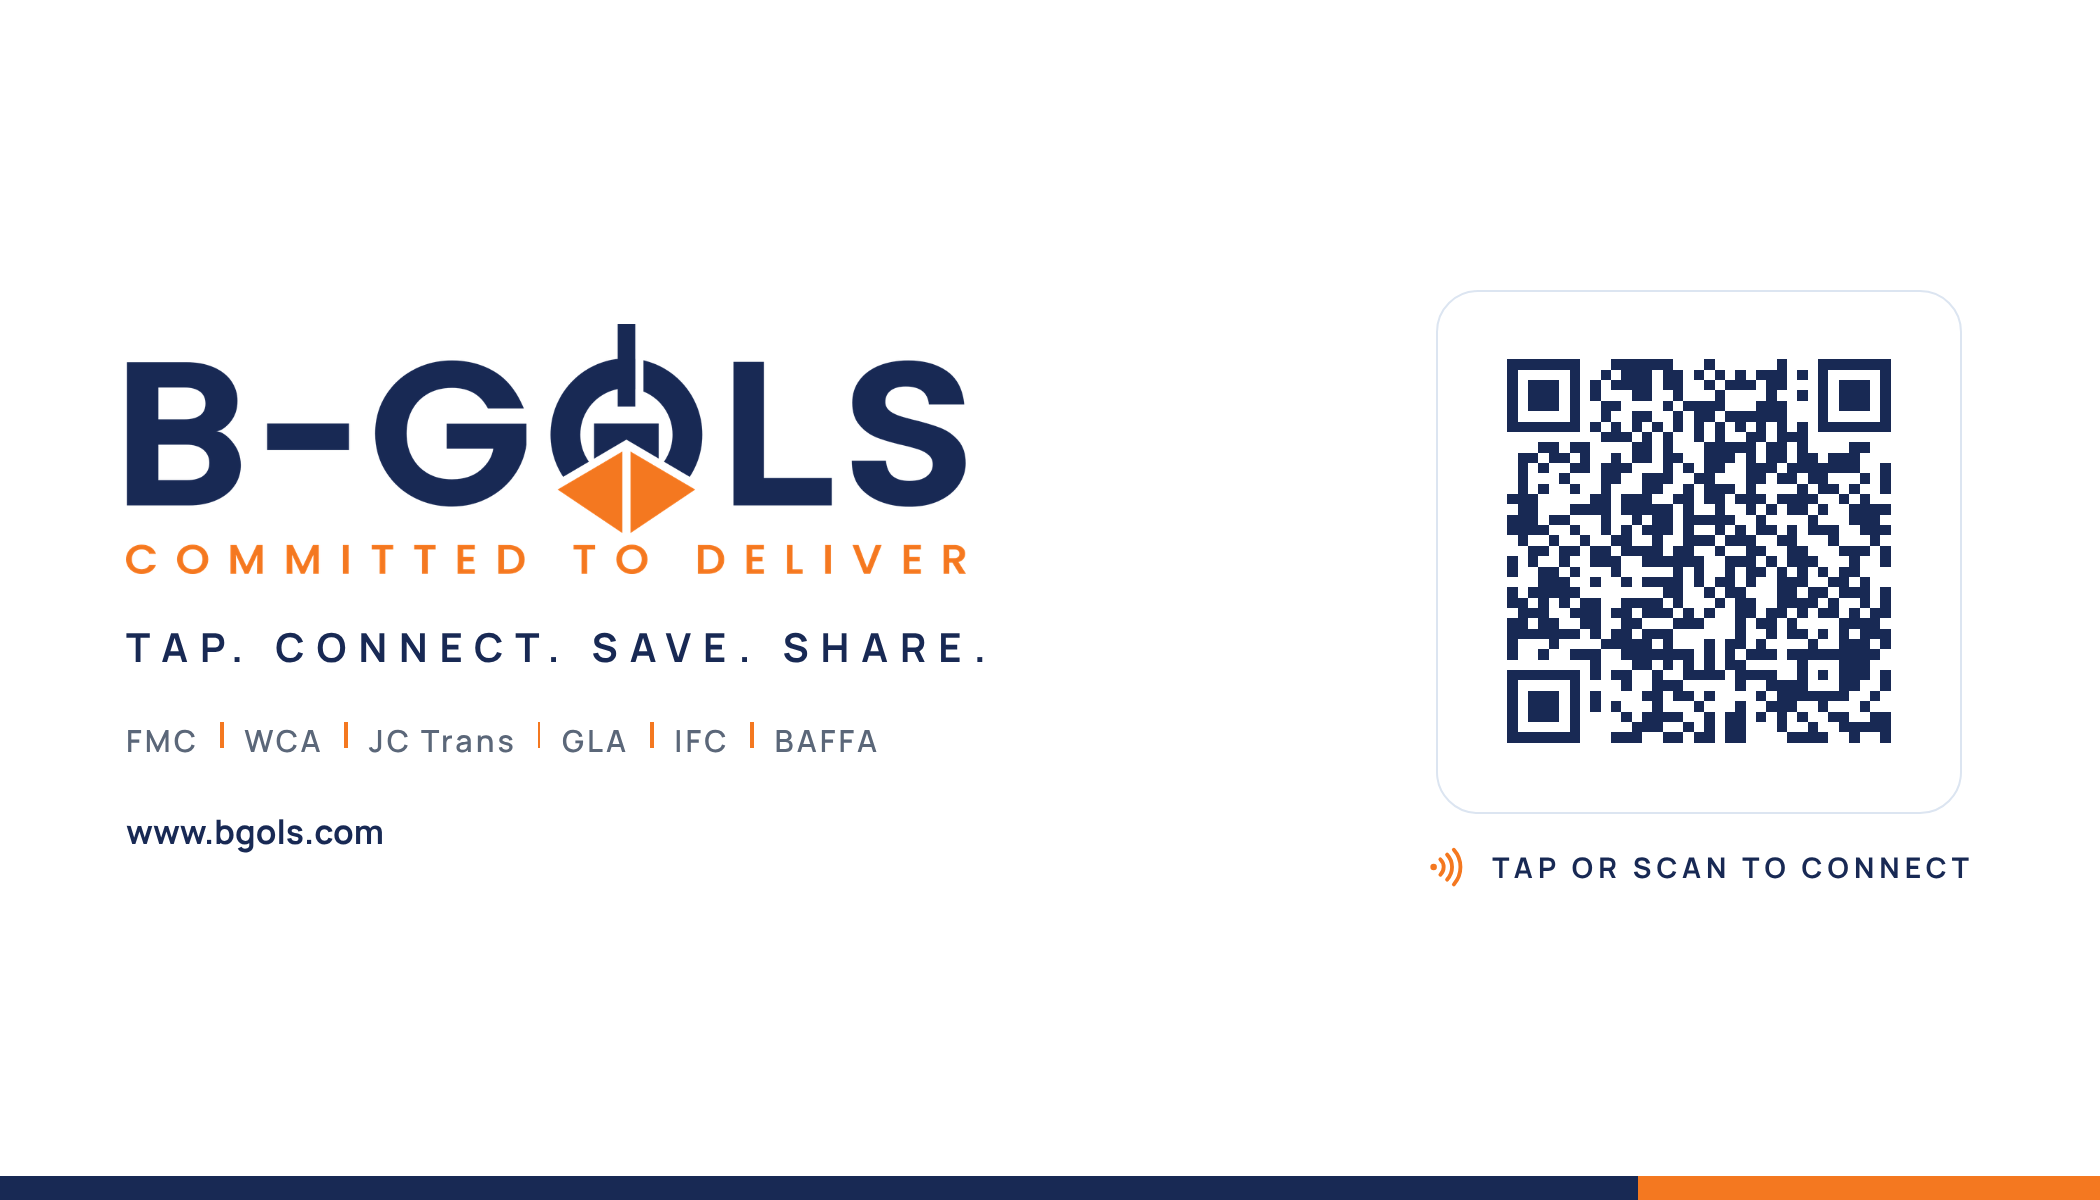
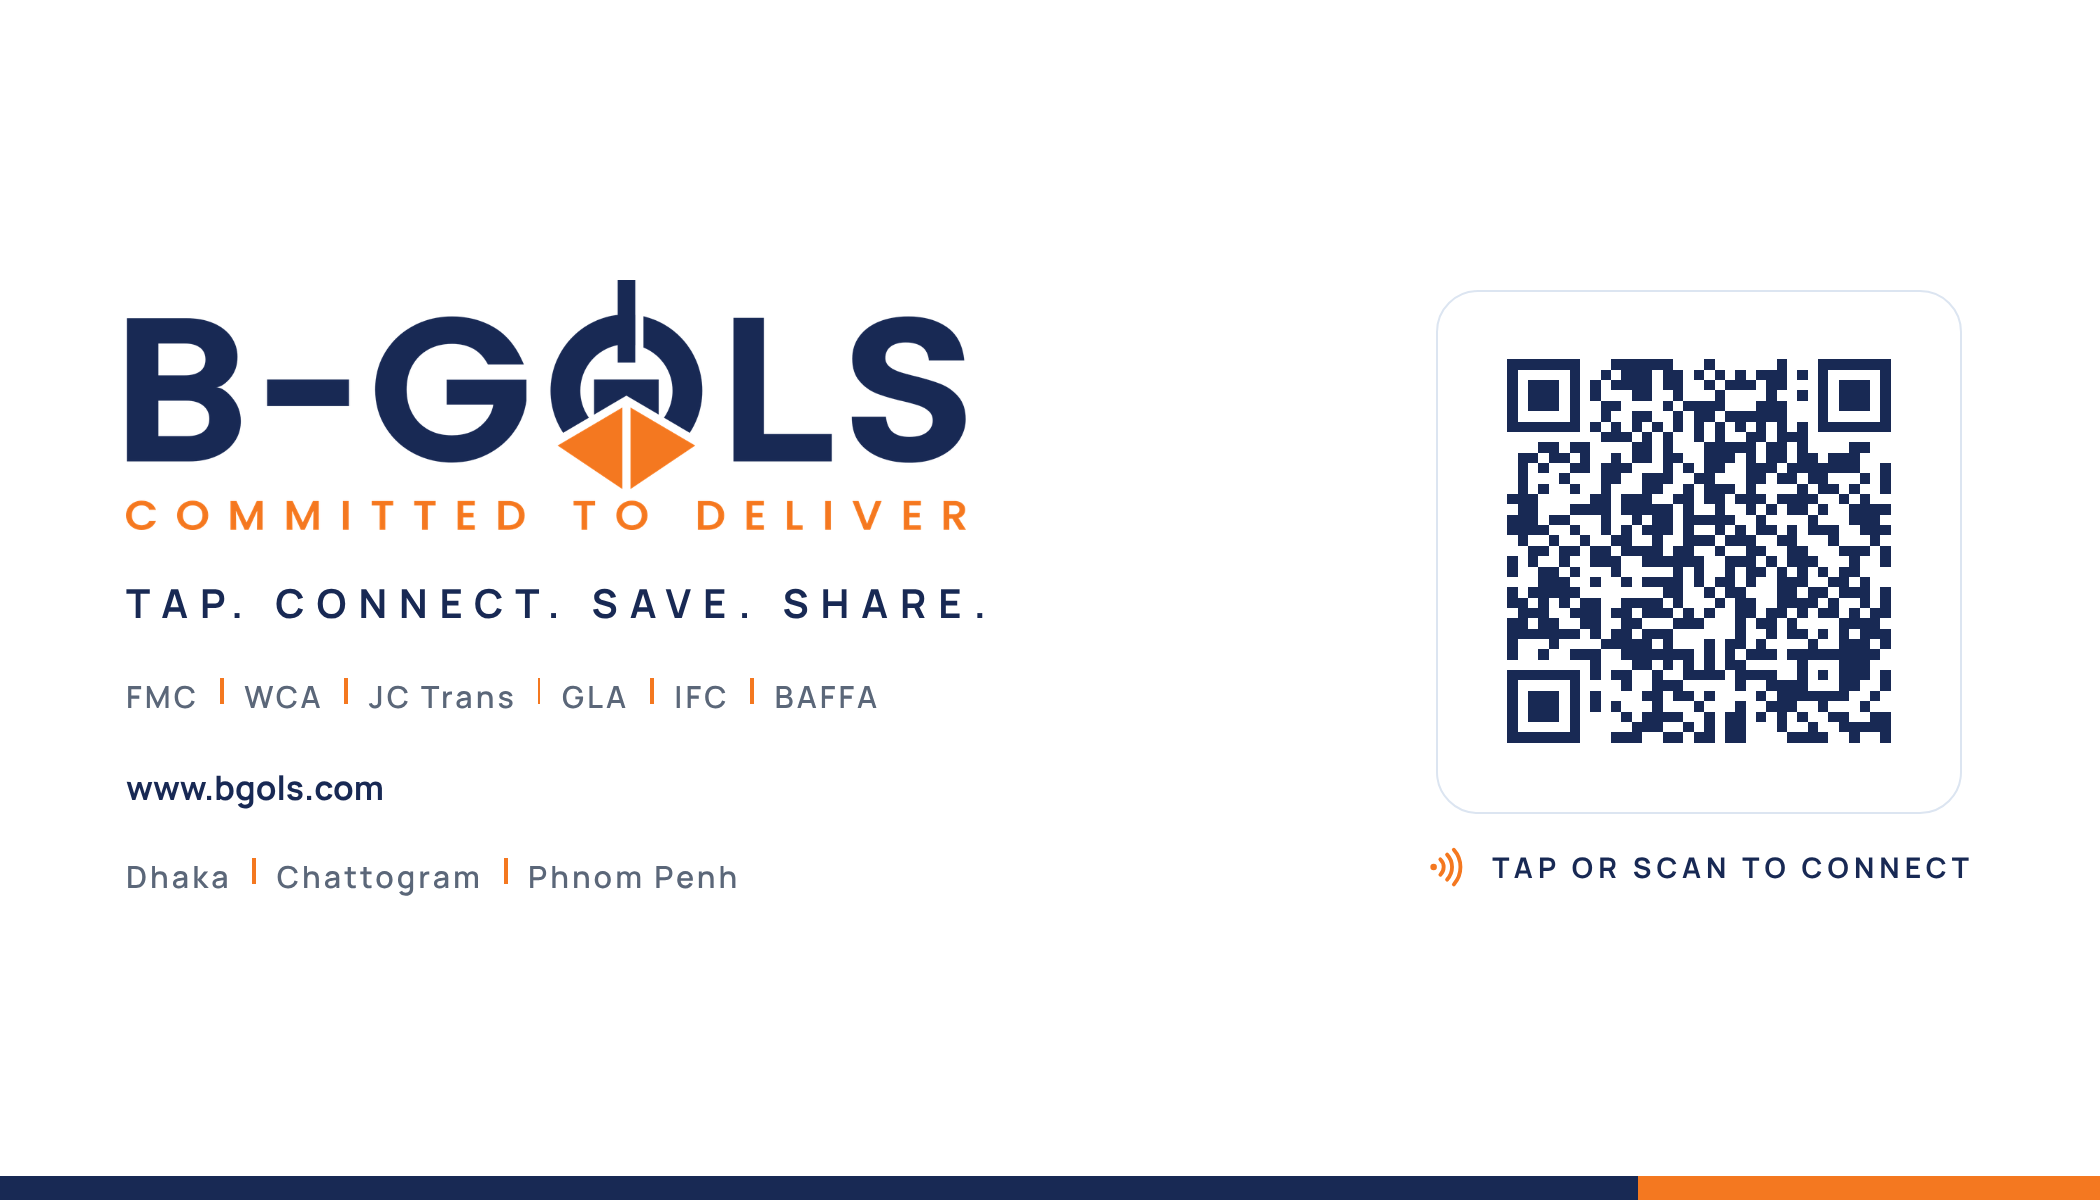
Unify office addresses: SHR Tower Chattogram, Bangladesh/Cambodia office labels
Claude-Session: https://claude.ai/code/session_01TprP1ieCAEd2tQhQxghHUL

Changed region(s): [[0.0619, 0.2158, 0.4643, 0.74]]

diff --git a/index.html b/index.html
@@ -172,20 +172,36 @@
       </section>
 
       <section class="panel" aria-labelledby="h-office">
-        <h2 id="h-office" class="panel-title">Office Location</h2>
-        <address class="address">
-          <svg><use href="#i-pin"/></svg>
-          <span>B&amp;T NEHALEEYA TOWER, Level-7, Holding No. 80B, Kemal Ataturk Avenue, P.S. Banani, Dhaka-1212, Bangladesh.</span>
-        </address>
+        <h2 id="h-office" class="panel-title">Offices</h2>
+        <div class="office">
+          <h3 class="office-city"><svg><use href="#i-pin"/></svg>Dhaka <small>Bangladesh Office</small></h3>
+          <address class="address">B&amp;T Nehaleeya Tower, Level-7, Holding No. 80B, Kemal Ataturk Avenue, P.S. Banani, Dhaka-1212, Bangladesh</address>
+          <div class="btn-row">
+            <a class="btn btn-secondary" target="_blank" rel="noopener" href="https://www.google.com/maps/dir/?api=1&amp;destination=B%26T%20Nehaleeya%20Tower%2C%20Holding%20No.%2080B%2C%20Kemal%20Ataturk%20Avenue%2C%20Banani%2C%20Dhaka-1212%2C%20Bangladesh"><svg><use href="#i-directions"/></svg>Directions</a>
+            <a class="btn btn-ghost" target="_blank" rel="noopener" href="https://www.google.com/maps/search/?api=1&amp;query=B%26T%20Nehaleeya%20Tower%2C%20Holding%20No.%2080B%2C%20Kemal%20Ataturk%20Avenue%2C%20Banani%2C%20Dhaka-1212%2C%20Bangladesh"><svg><use href="#i-external"/></svg>Open in Maps</a>
+          </div>
+        </div>
         <div class="map" id="map">
           <button class="map-load" type="button" id="mapBtn">
             <svg><use href="#i-pin"/></svg>
-            <span><b>Show interactive map</b><small>Loads Google Maps (google.com) only when you tap</small></span>
+            <span><b>Show Dhaka office on map</b><small>Loads Google Maps (google.com) only when you tap</small></span>
           </button>
         </div>
-        <div class="btn-row">
-          <a class="btn btn-secondary" id="directionsLink" target="_blank" rel="noopener" href="https://www.google.com/maps/dir/?api=1&amp;destination=B%26T%20Nehaleeya%20Tower%2C%20Holding%20No.%2080B%2C%20Kemal%20Ataturk%20Avenue%2C%20Banani%2C%20Dhaka-1212%2C%20Bangladesh"><svg><use href="#i-directions"/></svg>Get Directions</a>
-          <a class="btn btn-ghost" target="_blank" rel="noopener" href="https://www.google.com/maps/search/?api=1&amp;query=B%26T%20Nehaleeya%20Tower%2C%20Holding%20No.%2080B%2C%20Kemal%20Ataturk%20Avenue%2C%20Banani%2C%20Dhaka-1212%2C%20Bangladesh"><svg><use href="#i-external"/></svg>Open in Maps</a>
+        <div class="office">
+          <h3 class="office-city"><svg><use href="#i-pin"/></svg>Chattogram</h3>
+          <address class="address">SHR Tower, 2nd Floor, 320, Sheikh Mujib Road, Agrabad C/A, Chattogram-4100, Bangladesh</address>
+          <div class="btn-row">
+            <a class="btn btn-secondary" target="_blank" rel="noopener" href="https://www.google.com/maps/dir/?api=1&amp;destination=SHR%20Tower%2C%20320%20Sheikh%20Mujib%20Road%2C%20Agrabad%2C%20Chattogram-4100%2C%20Bangladesh"><svg><use href="#i-directions"/></svg>Directions</a>
+            <a class="btn btn-ghost" target="_blank" rel="noopener" href="https://www.google.com/maps/search/?api=1&amp;query=SHR%20Tower%2C%20320%20Sheikh%20Mujib%20Road%2C%20Agrabad%2C%20Chattogram-4100%2C%20Bangladesh"><svg><use href="#i-external"/></svg>Open in Maps</a>
+          </div>
+        </div>
+        <div class="office">
+          <h3 class="office-city"><svg><use href="#i-pin"/></svg>Phnom Penh <small>Cambodia Office</small></h3>
+          <address class="address">BG-EXPRESS (CAMBODIA) CO. LTD., Time Square-3, Floor-12F, Village-7, Street 335-317, Sangkat Boeng Kak, Ti Muy, Khan Toul Kork, Phnom Penh, Cambodia</address>
+          <div class="btn-row">
+            <a class="btn btn-secondary" target="_blank" rel="noopener" href="https://www.google.com/maps/dir/?api=1&amp;destination=Time%20Square%203%2C%20Street%20335%2C%20Boeng%20Kak%2C%20Toul%20Kork%2C%20Phnom%20Penh%2C%20Cambodia"><svg><use href="#i-directions"/></svg>Directions</a>
+            <a class="btn btn-ghost" target="_blank" rel="noopener" href="https://www.google.com/maps/search/?api=1&amp;query=Time%20Square%203%2C%20Street%20335%2C%20Boeng%20Kak%2C%20Toul%20Kork%2C%20Phnom%20Penh%2C%20Cambodia"><svg><use href="#i-external"/></svg>Open in Maps</a>
+          </div>
         </div>
       </section>
 

diff --git a/css/styles.css b/css/styles.css
@@ -237,6 +237,11 @@ body.ready .loader { opacity: 0; visibility: hidden; }
 .map-load span { display: grid; gap: 2px; background: var(--surface); padding: 8px 14px; border-radius: 12px; }
 .map-load b { font-size: 14px; }
 .map-load small { font-size: 11.5px; color: var(--muted); }
+.office + .office, .map + .office { margin-top: 18px; padding-top: 16px; border-top: 1px solid var(--line); }
+.office-city { margin: 0 0 6px; display: flex; align-items: center; gap: 8px; font-size: 13px; font-weight: 700; letter-spacing: .14em; text-transform: uppercase; color: var(--orange); }
+.office-city svg { width: 16px; height: 16px; }
+.office-city small { font-size: 11px; letter-spacing: .04em; text-transform: none; color: var(--muted); font-weight: 600; }
+.office .address { display: block; margin-bottom: 10px; }
 .btn-row { display: flex; flex-wrap: wrap; gap: 10px; }
 .btn-row .btn { flex: 1 1 140px; }
 

diff --git a/sw.js b/sw.js
@@ -1,6 +1,7 @@
 /* Service worker: makes the card open instantly and work offline.
    Bump VERSION whenever you change any file so phones fetch the update. */
-const VERSION = "card-v1";
+const PREFIX = "shams-card-";
+const VERSION = PREFIX + "v2";
 const CORE = [
   "./", "index.html", "card.html", "nfc-setup.html", "email-signature.html", "css/styles.css", "js/config.js", "js/app.js", "contact.vcf",
   "manifest.webmanifest",
@@ -17,7 +18,7 @@ self.addEventListener("install", (e) => {
 
 self.addEventListener("activate", (e) => {
   e.waitUntil(
-    caches.keys().then((keys) => Promise.all(keys.filter((k) => k !== VERSION).map((k) => caches.delete(k))))
+    caches.keys().then((keys) => Promise.all(keys.filter((k) => k === "card-v1" || (k.startsWith(PREFIX) && k !== VERSION)).map((k) => caches.delete(k))))
       .then(() => self.clients.claim())
   );
 });

diff --git a/card.html b/card.html
@@ -117,6 +117,7 @@
           <p class="b-motto">Tap. Connect. Save. Share.</p>
           <p class="b-members">FMC<i><b>|</b></i>WCA<i><b>|</b></i>JC Trans<i><b>|</b></i>GLA<i><b>|</b></i>IFC<i><b>|</b></i>BAFFA</p>
           <p class="b-web">www.bgols.com</p>
+          <p class="b-members">Dhaka<i><b>|</b></i>Chattogram<i><b>|</b></i>Phnom Penh</p>
         </div>
         <div class="b-right">
           <div class="b-qr"><img src="assets/qr/profile-qr.svg" alt="QR code linking to the digital business card" width="240" height="240"></div>

diff --git a/README.md b/README.md
@@ -18,7 +18,7 @@ HTTPS address is shared four ways: an **NFC tag**, a **QR code**, a **link**, an
 
 | Path | What it is |
 |---|---|
-| `index.html` | Main card: portrait card (front = identity, flip side = QR), full profile, office map, share sheet. Mobile-first, two columns on desktop. |
+| `index.html` | Main card: portrait card (front = identity, flip side = QR), full profile, Dhaka, Chattogram and Phnom Penh offices with directions, share sheet. Mobile-first, two columns on desktop. |
 | `card.html` | Landscape business card (3.5 × 2 in), front and back, printable. |
 | `nfc-setup.html` | Owner tool: shows the exact URL, writes/test-reads an NFC tag from Chrome on Android (Web NFC). |
 | `email-signature.html` | Copy-paste email signature (Gmail / Outlook). |
